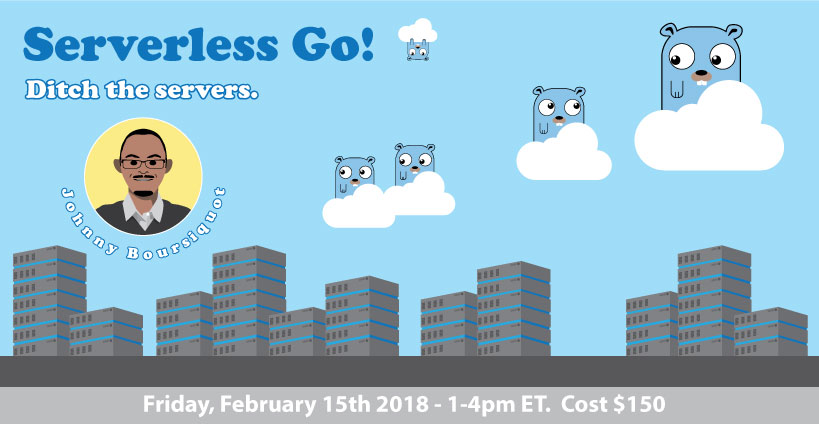
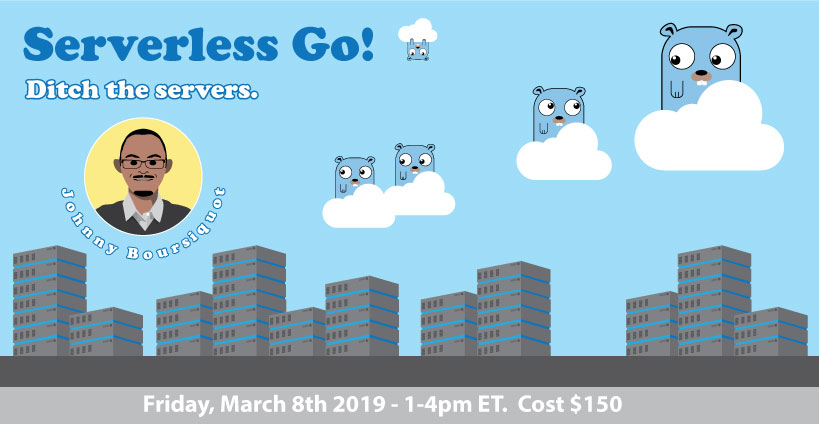
changed date

Changed region(s): [[0.2747, 0.9198, 0.8242, 0.9811]]

diff --git a/content/events/serverless-go.md b/content/events/serverless-go.md
@@ -1,8 +1,8 @@
 ---
 title: "Serverless Go!"
-date: "2019-02-15"
-starttime: "2/15 1:00pm EST"
-endtime: "2/15 4:00pm EST"
+date: "2019-03-08"
+starttime: "3/8 1:00pm EST"
+endtime: "3/8 4:00pm EST"
 days: 1
 location: "Online"
 cost: "$150"
